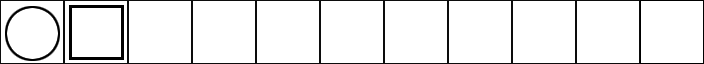
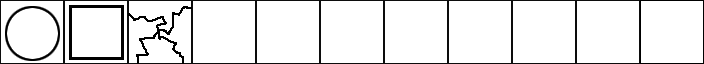
adds failed break symbol (rename symbols to overlays?) reorganize pixel shader to: - flow better - allow colorful symbols - specify coloring through material parameters

diff --git a/Cube.js b/Cube.js
@@ -328,6 +328,10 @@ function CubeMaterial( Game )
     this.mNumberTexSampler = null;
     this.mSymbolTexSampler = null;
 
+    this.mPaintedColorParam = null;
+    this.mDebugSolidColorParam = null;
+    this.mDebugSpaceColorParam = null;
+
     this.init = function(Game)
     {
         this.mMaterial = Game.mPack.createObject('Material');
@@ -370,6 +374,13 @@ function CubeMaterial( Game )
         // TODO: handle better yo
         this.mNumberTexSampler.texture = gNumberTexture;
         this.mSymbolTexSampler.texture = gSymbolTexture;
+
+        this.mPaintedColorParam = this.mMaterial.getParam('PaintedColor');
+        this.mPaintedColorParam.value = [ 0.0, 0.0, 1.0, 1.0 ]; // move to puzzle file
+        this.mDebugSolidColorParam = this.mMaterial.getParam('DebugSolidColor');
+        this.mDebugSolidColorParam.value = [ 0.8, 1.0, 0.8, 1.0 ]; // move to puzzle file?
+        this.mDebugSpaceColorParam = this.mMaterial.getParam('DebugSpaceColor');
+        this.mDebugSpaceColorParam.value = [ 1.0, 0.8, 0.8, 1.0 ]; // move to puzzle file?
     }
     this.init(Game);
 
@@ -423,5 +434,18 @@ function CubeMaterial( Game )
     this.setSymbolsTexture = function( Value )
     {
         this.mSymbolTexSampler.texture = Value;
+    }
+
+    this.setPaintedColor = function( Value )
+    {
+        this.mPaintedColorParam.value = Value;    
+    }
+    this.setDebugSolidColor = function( Value )
+    {
+        this.mDebugSolidColorParam.value = Value;    
+    }
+    this.setDebugSpaceColor = function( Value )
+    {
+        this.mDebugSpaceColorParam.value = Value;    
     }
 }
